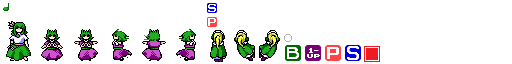
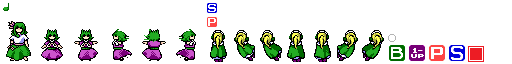
Got carried away and implemented a simple spinning animation for Frond, which is SUPPOSED to play when Sky stops moving. Unfortunately, none of the animations want to actually play properly, despite the stateTime of the animations updating properly. Who knows.

Changed region(s): [[0.5, 0.4688, 0.9688, 0.9688]]

diff --git a/core/src/com/mygdx/bullethell/game/Assets.java b/core/src/com/mygdx/bullethell/game/Assets.java
@@ -4,7 +4,9 @@ import com.badlogic.gdx.Gdx;
 import com.badlogic.gdx.assets.AssetDescriptor;
 import com.badlogic.gdx.assets.AssetErrorListener;
 import com.badlogic.gdx.assets.AssetManager;
+import com.badlogic.gdx.graphics.g2d.Animation;
 import com.badlogic.gdx.graphics.g2d.TextureAtlas;
+import com.badlogic.gdx.utils.Array;
 import com.badlogic.gdx.utils.Disposable;
 import com.mygdx.bullethell.util.Constants;
 import com.badlogic.gdx.graphics.g2d.TextureAtlas.AtlasRegion;
@@ -105,12 +107,32 @@ public class Assets implements Disposable, AssetErrorListener
     
     /**
      * Compact texture atlas asset loader for Sky.
+     * Loads her idle animations, as well as the animations that play when she moves.
      * @author Aaron Wink
      */
     public class AssetSky {
         public final AtlasRegion sky;
+        public final Animation skyNormal;
+        public final Animation skyLeft;
+        public final Animation skyRight;
         public AssetSky(TextureAtlas a) {
             sky = a.findRegion("sky");
+            
+            Array<AtlasRegion> regions = null;
+            
+            // Animation: Sky Idle
+            regions = a.findRegions("sky_normal");
+            skyNormal = new Animation(1.0f / 10.0f, regions, Animation.PlayMode.LOOP);
+            
+            // Animation: Sky Left
+            regions = a.findRegions("sky_left");
+            skyLeft = new Animation(1.0f / 10.0f, regions, Animation.PlayMode.LOOP);
+            
+            // Animation: Sky Right
+            regions = a.findRegions("sky_right");
+            skyRight = new Animation(1.0f / 10.0f, regions, Animation.PlayMode.LOOP);
+            
+            //regions = new Array<AtlasRegion>();
         }
     }
     
@@ -131,8 +153,15 @@ public class Assets implements Disposable, AssetErrorListener
      */
     public class AssetFrond {
         public final AtlasRegion frond;
+        public final Animation frondSpin;
         public AssetFrond(TextureAtlas a) {
             frond = a.findRegion("frond");
+            
+            Array<AtlasRegion> regions = null;
+            
+            // Animation: Spin!
+            regions = a.findRegions("frond_spin");
+            frondSpin = new Animation(1.0f / 10.0f, regions);
         }
     }
     

diff --git a/core/src/com/mygdx/bullethell/game/objects/Sky.java b/core/src/com/mygdx/bullethell/game/objects/Sky.java
@@ -1,6 +1,7 @@
 package com.mygdx.bullethell.game.objects;
 
 import com.badlogic.gdx.Gdx;
+import com.badlogic.gdx.graphics.g2d.Animation;
 import com.badlogic.gdx.graphics.g2d.SpriteBatch;
 import com.badlogic.gdx.graphics.g2d.TextureRegion;
 import com.mygdx.bullethell.game.Assets;
@@ -25,6 +26,10 @@ public class Sky extends AbstractGameObject
 	public enum MOVE_DIR { LEFT, CENTER, RIGHT }
 	
 	private TextureRegion sky;
+    private  Animation skyNormal;
+    private  Animation skyLeft;
+    private  Animation skyRight;
+	
 	public MOVE_DIR movedir;
 
 	/**
@@ -39,6 +44,10 @@ public class Sky extends AbstractGameObject
 	{
 		dim.set(3, 4);
 		this.sky = Assets.instance.sky.sky;
+		skyNormal = Assets.instance.sky.skyNormal;
+		skyLeft = Assets.instance.sky.skyLeft;
+		skyRight = Assets.instance.sky.skyRight;
+		setAnimation(skyNormal);
 		
 		origin.set(dim.x / 2, dim.y / 2);
 		
@@ -63,10 +72,13 @@ public class Sky extends AbstractGameObject
 	{
 		if (leftPressed && !rightPressed) {
 			movedir = MOVE_DIR.LEFT;
+			setAnimation(skyLeft);
 		} else if (!leftPressed && rightPressed) {
 			movedir = MOVE_DIR.RIGHT;
+			setAnimation(skyRight);
 		} else {		
 			movedir = MOVE_DIR.CENTER;
+			setAnimation(skyNormal);
 		}
 	}
 	
@@ -102,8 +114,9 @@ public class Sky extends AbstractGameObject
 	public void update(float dt)
 	{
 		super.update(dt);
-		if (vel.x != 0)
-			movedir = vel.x < 0 ? MOVE_DIR.LEFT : MOVE_DIR.RIGHT;
+		
+		//if (vel.x != 0)
+		//	movedir = vel.x < 0 ? MOVE_DIR.LEFT : MOVE_DIR.RIGHT;
 		
 		if (timeInvincible > 0)
 		{
@@ -122,8 +135,11 @@ public class Sky extends AbstractGameObject
 		
 		if (isInvincible)
 			bat.setColor(0.8f, 0.0f, 0.8f, 0.75f);
+		
 		scale.set(0.625f * 0.25f,0.25f);
-		reg = sky;
+		
+		reg = (TextureRegion) anim.getKeyFrame(stateTime, true);
+		
 		bat.draw(reg.getTexture(), pos.x, pos.y, origin.x, origin.y, 
 				dim.x, dim.y, scale.x, scale.y, rot, reg.getRegionX(),
 				reg.getRegionY(), reg.getRegionWidth(), reg.getRegionHeight(),

diff --git a/core/src/com/mygdx/bullethell/game/objects/AbstractGameObject.java b/core/src/com/mygdx/bullethell/game/objects/AbstractGameObject.java
@@ -2,6 +2,7 @@ package com.mygdx.bullethell.game.objects;
 
 import com.badlogic.gdx.graphics.Camera;
 import com.badlogic.gdx.graphics.OrthographicCamera;
+import com.badlogic.gdx.graphics.g2d.Animation;
 import com.badlogic.gdx.graphics.g2d.SpriteBatch;
 import com.badlogic.gdx.math.Vector2;
 import com.badlogic.gdx.math.Vector3;
@@ -29,6 +30,10 @@ public abstract class AbstractGameObject
     public Vector2 accel;
     public Rectangle bounds;
     public Body body;
+    
+    public float stateTime;
+    public Animation anim;
+    
     protected final float sc = Constants.SCALEONE;  // Because I'm tired of typing the whole thing.
     
 	protected final float boundScale = 0.5f * sc;
@@ -46,6 +51,16 @@ public abstract class AbstractGameObject
         accel = new Vector2();
         bounds = new Rectangle();
     }
+    
+    /**
+	 * Changes the current animation for the object and resets the state time.
+	 * @param anim - The animation to be played.
+	 */
+	public void setAnimation (Animation anim) 
+	{
+		this.anim = anim;
+		stateTime = 0;
+	}
     
     /**
      * Updates the current horizontal speed of the object.
@@ -93,6 +108,8 @@ public abstract class AbstractGameObject
     
     public void update(float dt)
     {
+    	stateTime += dt;
+    	
     	if (body == null)
     	{
     		updateMotionX(dt);

diff --git a/core/src/com/mygdx/bullethell/game/objects/Frond.java b/core/src/com/mygdx/bullethell/game/objects/Frond.java
@@ -1,11 +1,13 @@
 package com.mygdx.bullethell.game.objects;
 
+import com.badlogic.gdx.graphics.g2d.Animation;
 import com.badlogic.gdx.graphics.g2d.TextureRegion;
 import com.mygdx.bullethell.game.Assets;
 
 public class Frond extends EnemyParent
 {
 	private boolean canSpawn = true;
+	public Animation spin;
 	
 	public Frond()
 	{
@@ -16,6 +18,8 @@ public class Frond extends EnemyParent
 	{
 		dim.set(4,6);
 		health = 20;
+		
+		spin = Assets.instance.frond.frondSpin;
 	}
 	
 	/**

diff --git a/core/src/com/mygdx/bullethell/game/WorldController.java b/core/src/com/mygdx/bullethell/game/WorldController.java
@@ -110,6 +110,7 @@ public class WorldController extends InputAdapter
     	} else {
     		stage.sky.vel.x = 0;
     		stage.sky.setMoving(false, false);
+    		stage.frond.setAnimation(stage.frond.spin);
     	}
 
     	// Is she moving vertically?
